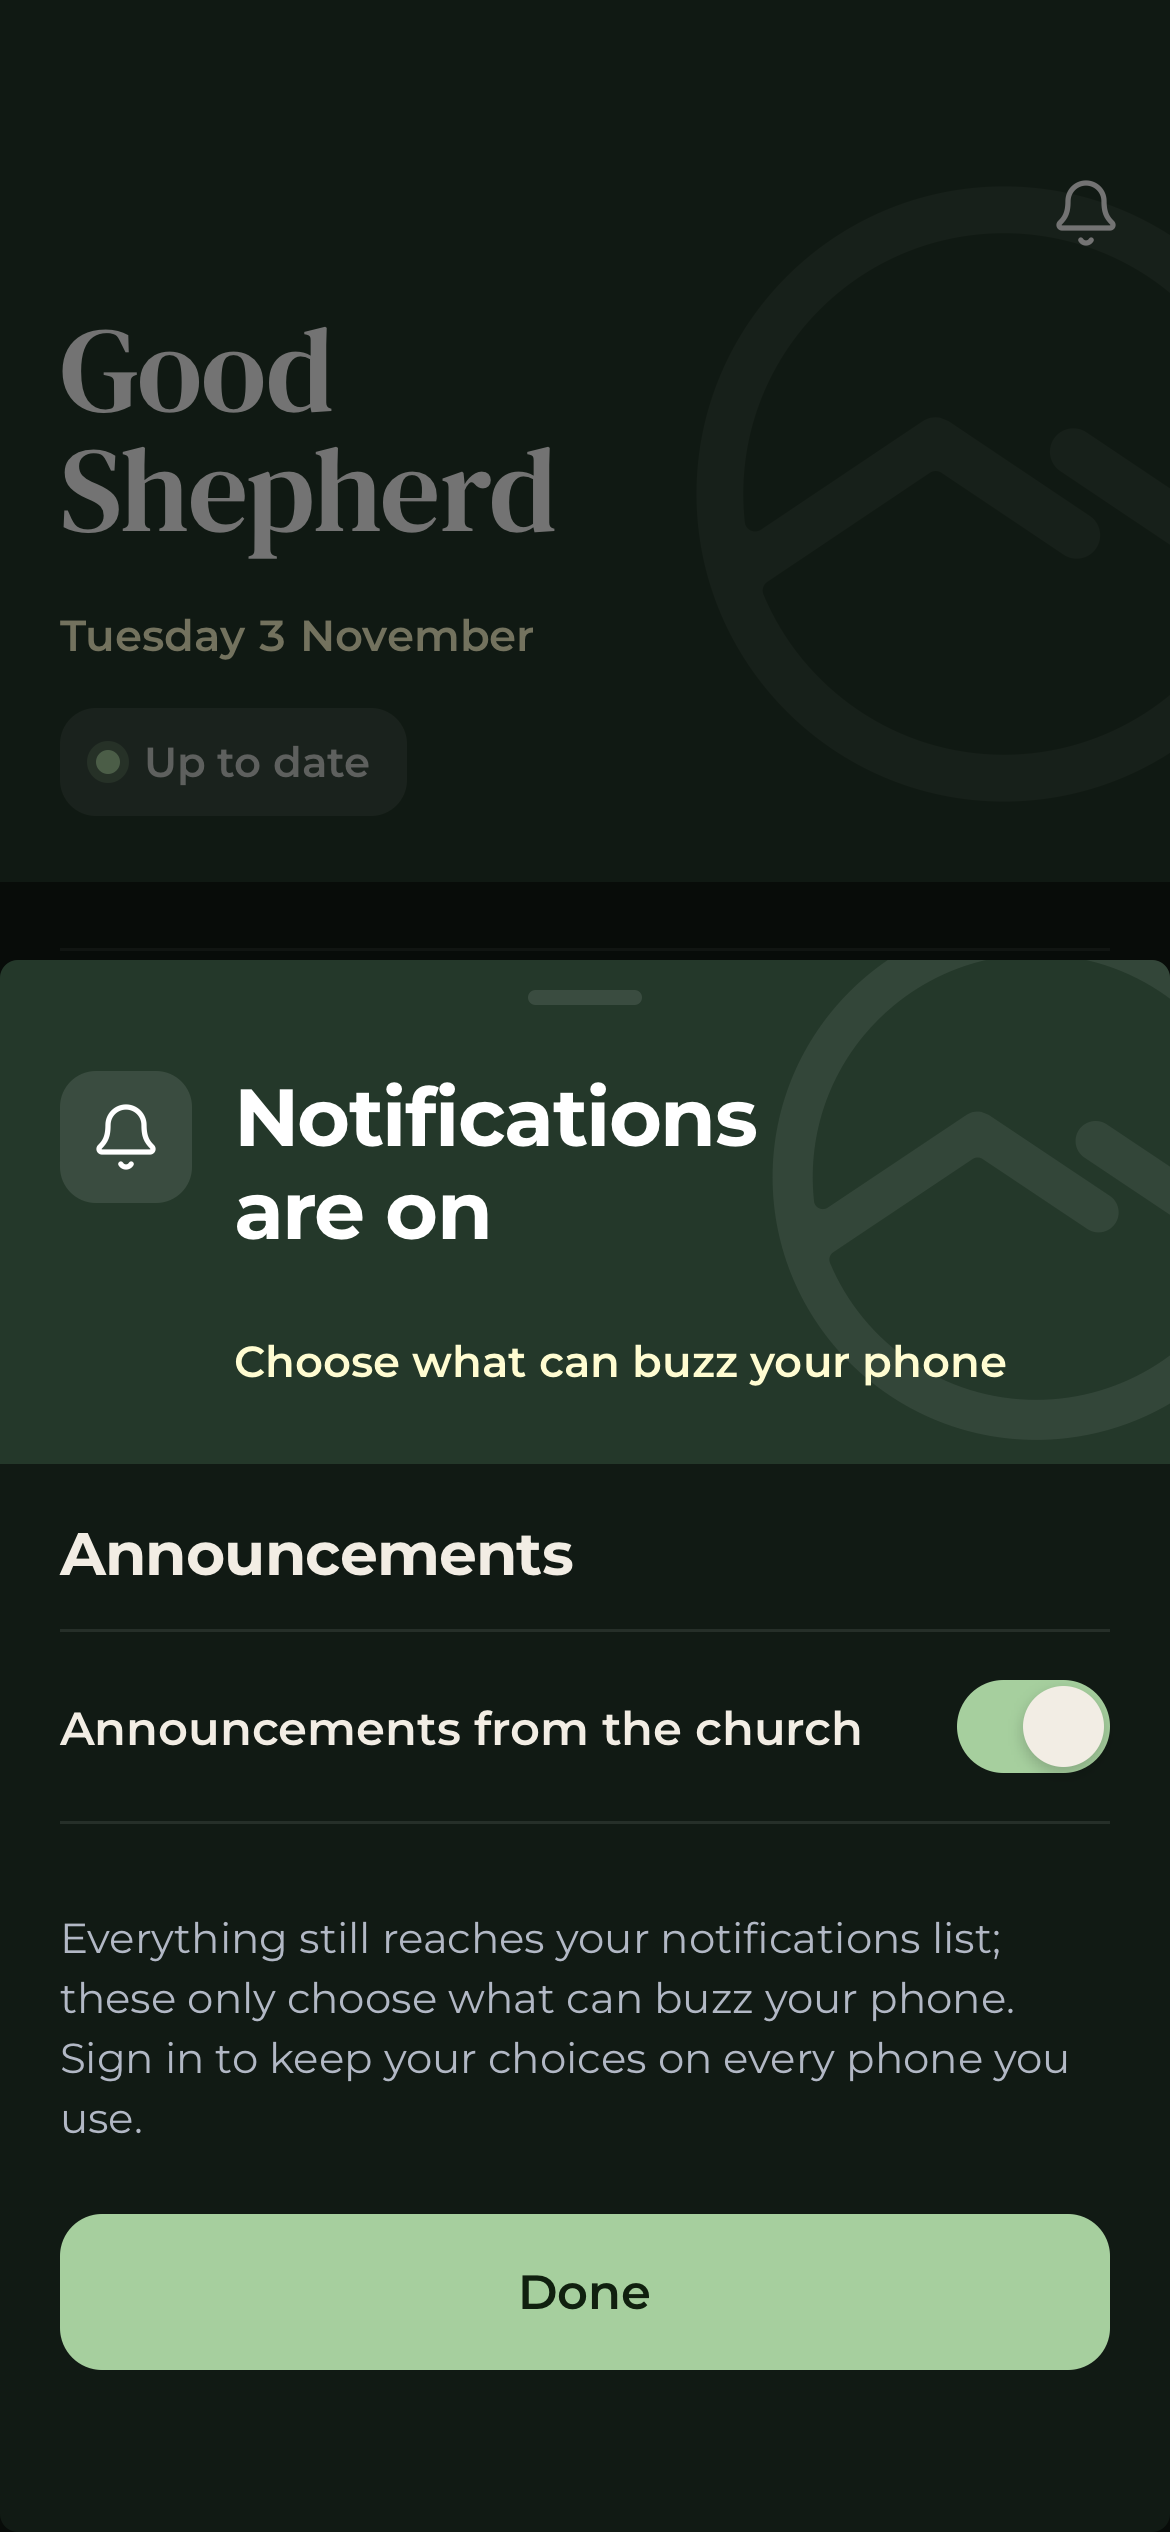
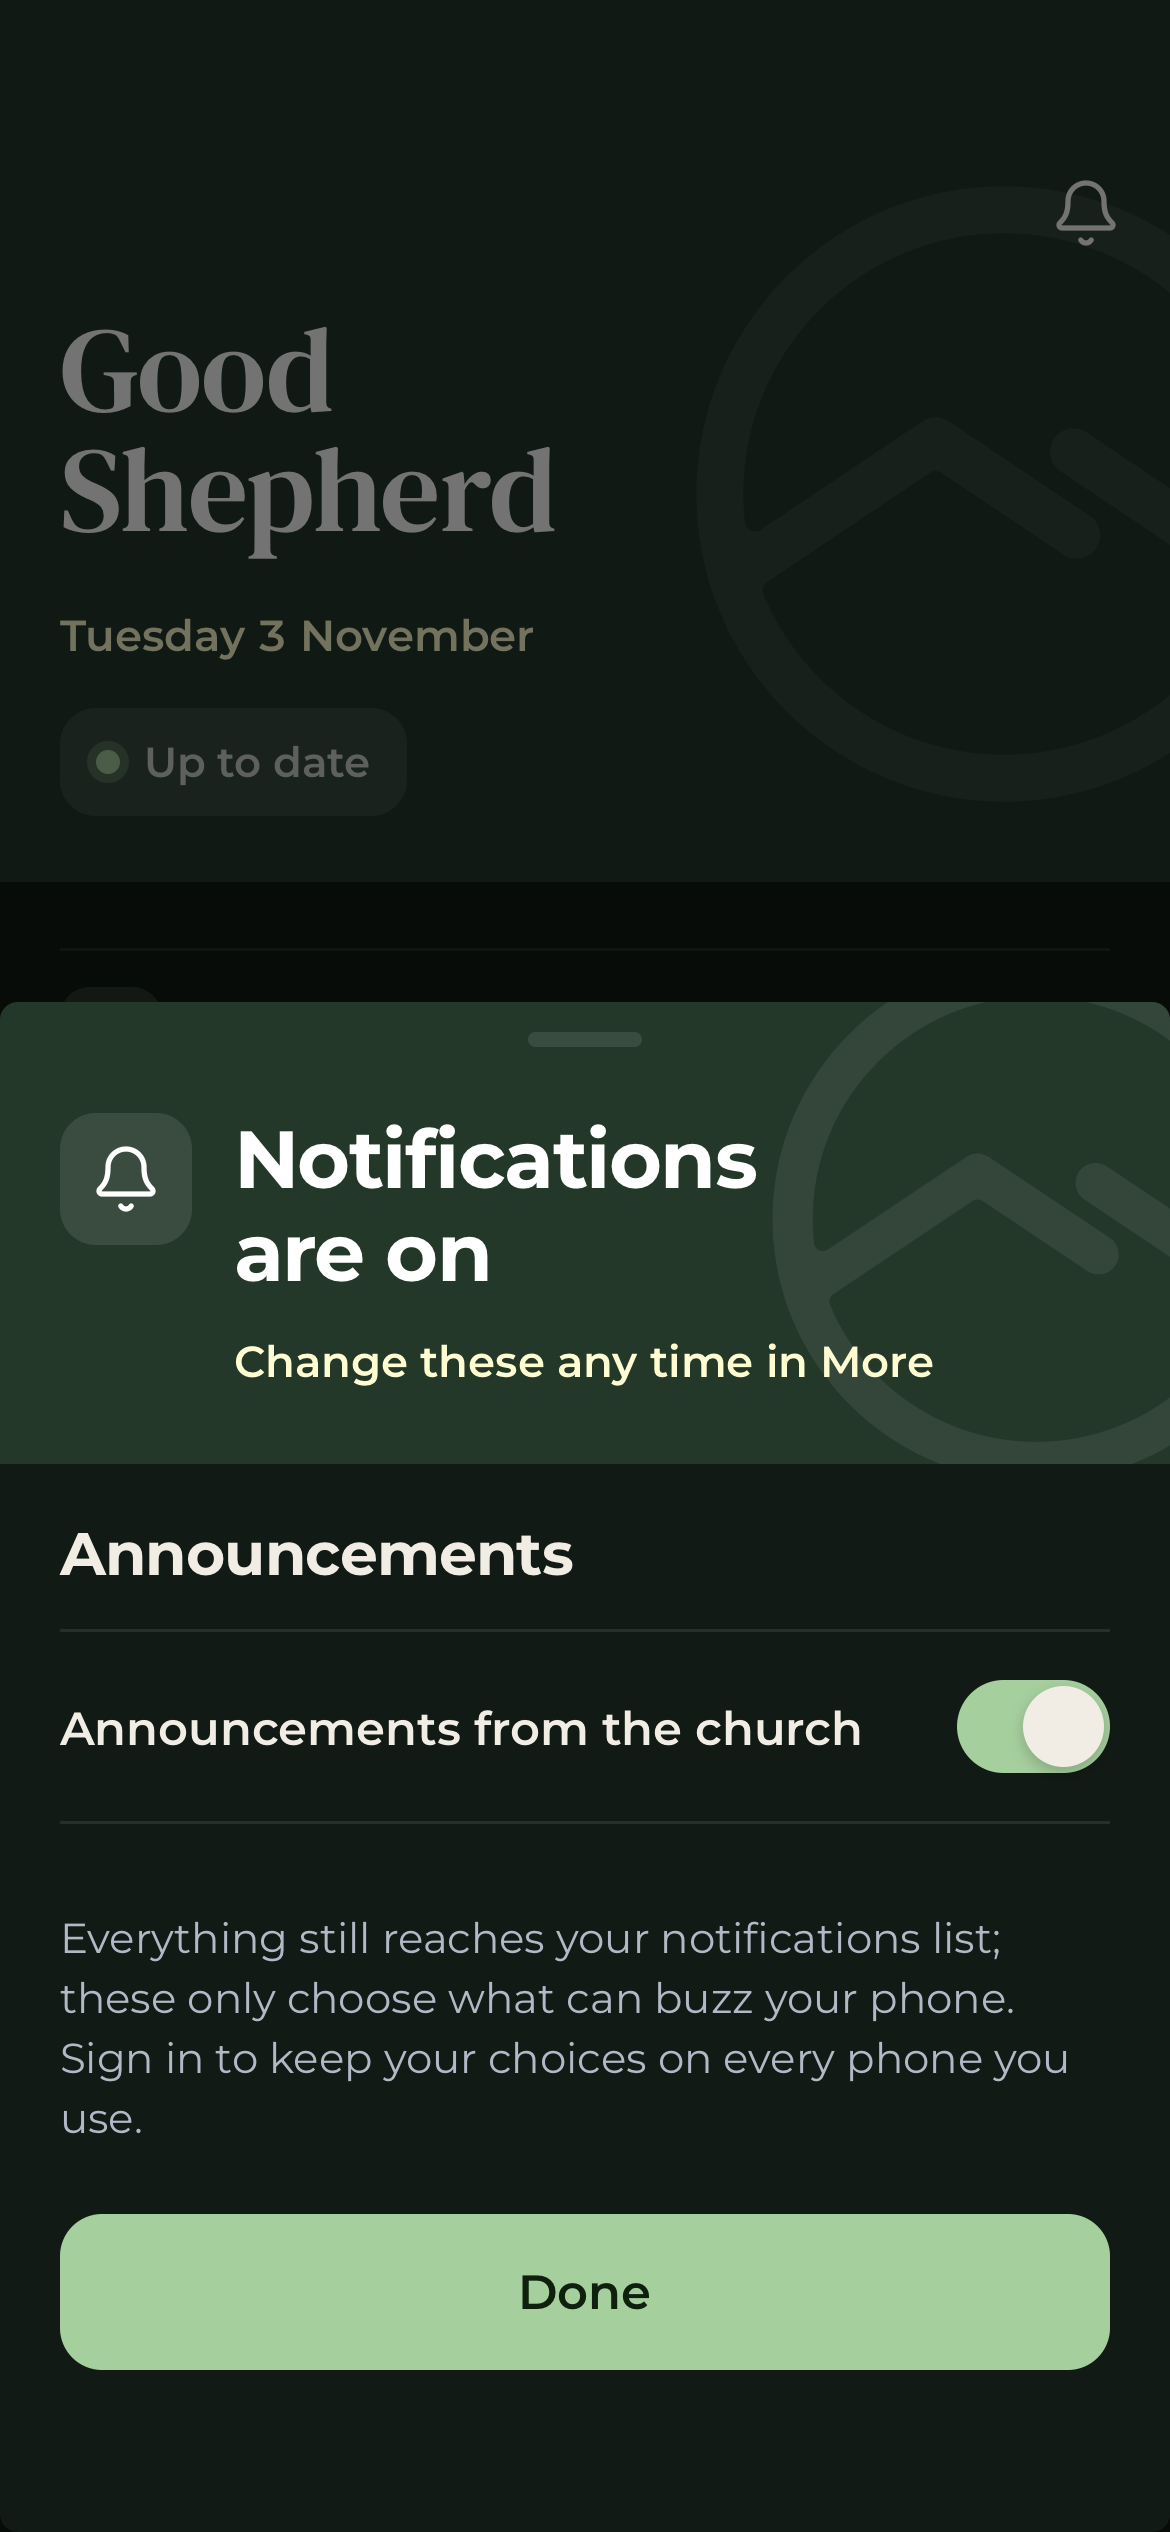
Finish review fixes: the second step's heading, its note, and plain rows for phone settings in Insights
Claude-Session: https://claude.ai/code/session_01KqANXg8DQ29Z8e8539QQmG

Changed region(s): [[0.0, 0.3744, 1.0, 0.5616], [0.0615, 0.4368, 0.1538, 0.4992]]

diff --git a/src/Platform/GSBC.ChurchApp.Platform.Ui/wwwroot/css/ui.css b/src/Platform/GSBC.ChurchApp.Platform.Ui/wwwroot/css/ui.css
@@ -269,8 +269,8 @@ button.row:active, a.row:active { background: var(--line); }
 .sheet-heading__note { margin: 10px 0 0 58px; font-size: var(--text-label); font-weight: 600; color: var(--masthead-note); }
 .sheet__summary { margin: 4px 0 0; max-width: 65ch; font-size: var(--text-lead); line-height: 1.55; color: var(--ink); text-wrap: pretty; }
 .sheet__step { display: grid; gap: var(--stack); }
+.sheet__next { animation: paged-in 260ms var(--ease-out) both; }
 .sheet .section { margin-top: 0; padding-inline: 0; }
-.sheet__step--next { animation: paged-in 260ms var(--ease-out) both; }
 .paged__cover, .paged__page { touch-action: pan-y; }
 .paged__cover.paged--forward, .paged__page.paged--forward { animation: paged-in 260ms var(--ease-out) both; }
 .paged__cover.paged--back, .paged__page.paged--back { animation: paged-back 260ms var(--ease-out) both; }
@@ -698,6 +698,7 @@ button.row:active, a.row:active { background: var(--line); }
 .ranked-list__items { display: grid; margin: 4px 0 0; padding: 0; list-style: none; border-top: 1px solid var(--line); counter-reset: rank; }
 .ranked-list__item { display: flex; align-items: baseline; gap: 10px; min-height: 40px; padding: 9px 0; border-bottom: 1px solid var(--line); counter-increment: rank; font-size: var(--text-caption); }
 .ranked-list__item::before { content: counter(rank); min-width: 1.2em; color: var(--ink-3); font-variant-numeric: tabular-nums; }
+.ranked-list__items--plain .ranked-list__item::before { content: none; }
 .ranked-list__label { flex: 1; min-width: 0; color: var(--ink); overflow-wrap: anywhere; }
 .ranked-list__value { color: var(--ink-2); font-variant-numeric: tabular-nums; white-space: nowrap; }
 

diff --git a/.impeccable/surfaces/notifications-app-welcome.md b/.impeccable/surfaces/notifications-app-welcome.md
@@ -28,7 +28,7 @@ system prompt on launch, a multi-page onboarding carousel, and a second sheet st
 OWN-WORLD: The existing shell's covered sheet: navy cover band with the mark at 7%, a 44px bell tile on the
 masthead chip beside "Hear from the church" in headline type, a beige note line; the lead line at lead size;
 a full-width primary capsule and a quiet "Not now" under it. The second step keeps the band ("Notifications
-are on", note "Choose what can buzz your phone") over the settings' hairline toggle rows and Done.
+are on", note "Change these any time in More") over the settings' hairline toggle rows and Done.
 
 STORY: I open the app for the first time, read one line about what the church sends, tap Turn on notifications,
 say Allow, and see the one or two kinds I can turn off; I tap Done and I'm on Home.
@@ -36,7 +36,7 @@ say Allow, and see the one or two kinds I can turn off; I tap Done and I'm on Ho
 FIRST VIEWPORT: Home behind a 38% scrim; the sheet from the bottom: cover band with bell tile, title and note;
 the line; Turn on notifications (primary); Not now (quiet).
 
-FORM: extension of the existing covered sheet (What's new); no concept round, the owner specified the structure;
-seed: none (unavailable).
+FORM: extension of the existing covered sheet (What's new). Concept round waived: new-work says not to roll for
+a local extension or a precisely specified request, and the owner specified the structure (2026-11-03).
 
 FINISH: unreviewed and undocumented is unfinished; this build ends with the finish review, the verdict, DESIGN.md, and every shipping raster carrying its provenance
